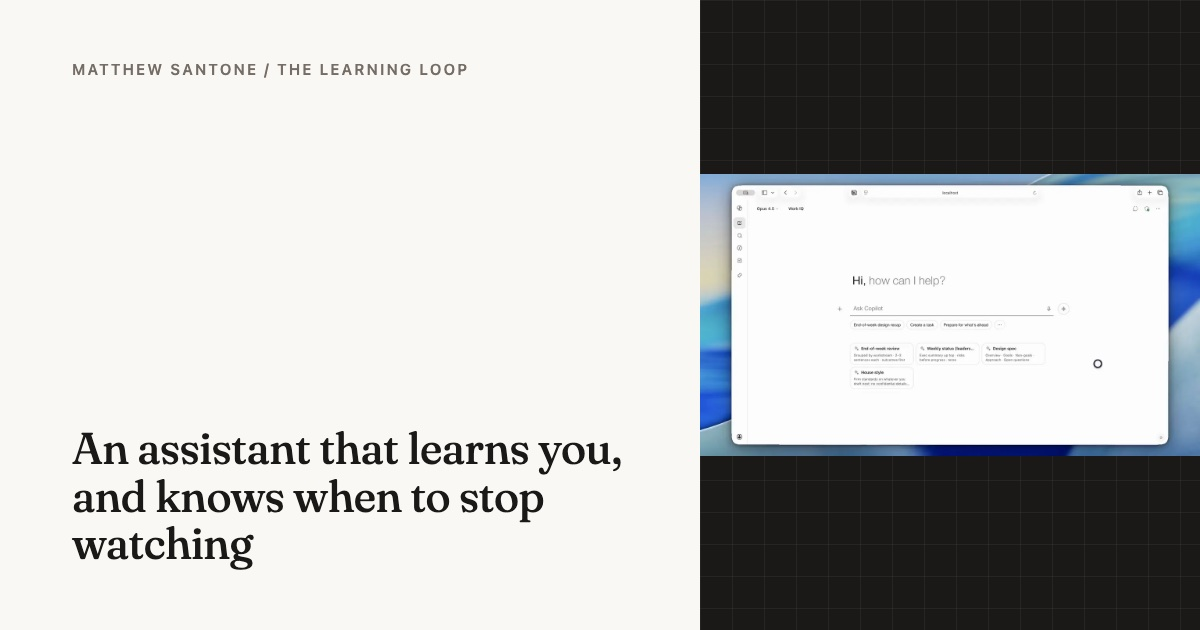
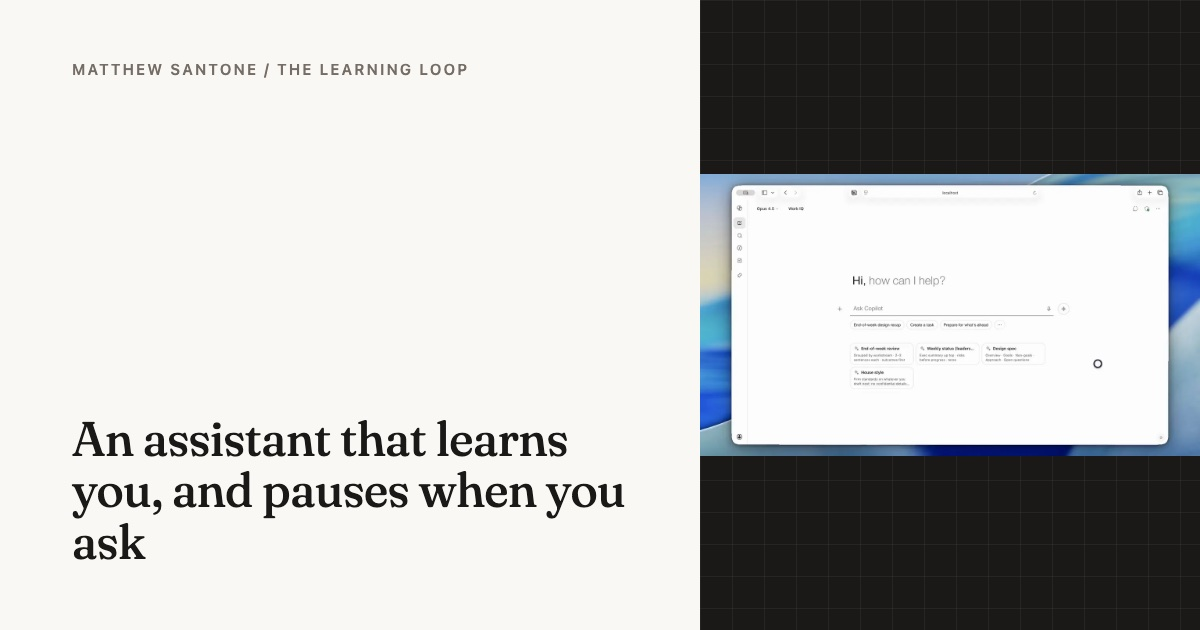
Even the index headlines at two lines each
Measured the budget first: 55 characters is the ceiling for two lines at
this measure, and 58 tips to three. The two long headlines came down
from 66 and 61 to 55 and 53.

Editorial breaks into two beats instead of one long breath, and "made it
theirs" keeps the ownership that "adopted" loses. It gives up "standard",
which is the real cost.

Steering changes for accuracy as much as for length. "Knows when to stop
watching" says the system decides, and the piece argues the opposite: it
must never quietly take control, and the person holds the pause. The
headline now says who is in charge, using the product's own word.

Rows are 152px, 165px or 178px depending on width, and identical to each
other at every width from 768px up. The social cards were regenerated,
since they render the headline as pixels.

Phones still run 2, 3 and 4: at 17 characters a line no headline of this
length can even out there.

Changed region(s): [[0.0617, 0.6635, 0.5242, 0.8444], [0.0617, 0.8444, 0.2158, 0.9048]]

diff --git a/src/content.js b/src/content.js
@@ -130,7 +130,7 @@ const pieces = [
     kicker: "The learning loop",
     social: {
       image: "assets/social/steering.jpg",
-      alt: "An assistant that learns you, and knows when to stop watching.",
+      alt: "An assistant that learns you, and pauses when you ask.",
     },
     copy: "copy-steering.md",
     lead: {
@@ -200,7 +200,7 @@ const pieces = [
     kicker: "Judgment and pull",
     social: {
       image: "assets/social/editorial.jpg",
-      alt: "I codified the house style, and other teams made it their standard.",
+      alt: "I codified the house style. Other teams made it theirs.",
     },
     copy: "copy-editorial.md",
     // The only approved pull-quote on the site (CONTENT-SPEC.md). Rendered as an

diff --git a/copy-editorial.md b/copy-editorial.md
@@ -4,7 +4,7 @@ Status: DONE. Sets the template for the other three.
 
 ---
 
-# I codified the house style, and other teams made it their standard
+# I codified the house style. Other teams made it theirs.
 
 ## Fluent Expression had designed a report language in Figma. I codified it into skills and a render system so an LLM could compose with it, from a tort case to the rule against perpetuities, then merged the experiment into Microsoft's Researcher agent.
 

diff --git a/copy-steering.md b/copy-steering.md
@@ -3,7 +3,7 @@ Note: the learning loop. Interactivity: VIDEO (live demo = interview stretch).
 
 ---
 
-# An assistant that learns you, and knows when to stop watching
+# An assistant that learns you, and pauses when you ask
 
 ## The steps could be saved; one person's standard could not. So I made a learning loop that turns revisions into preferences, with a pause that stops new capture without forgetting what it already learned.
 
